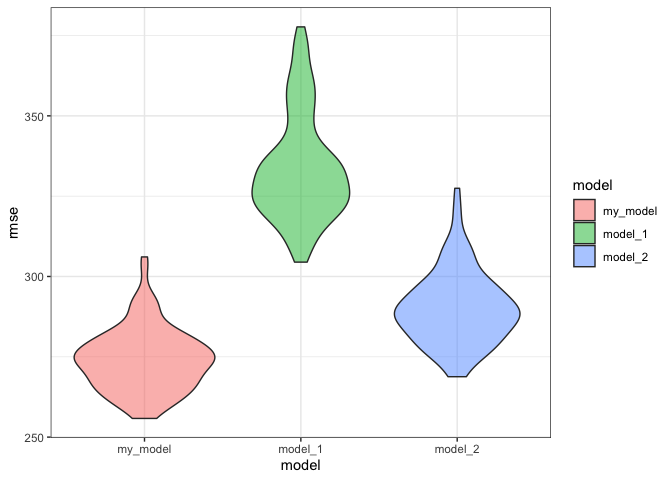
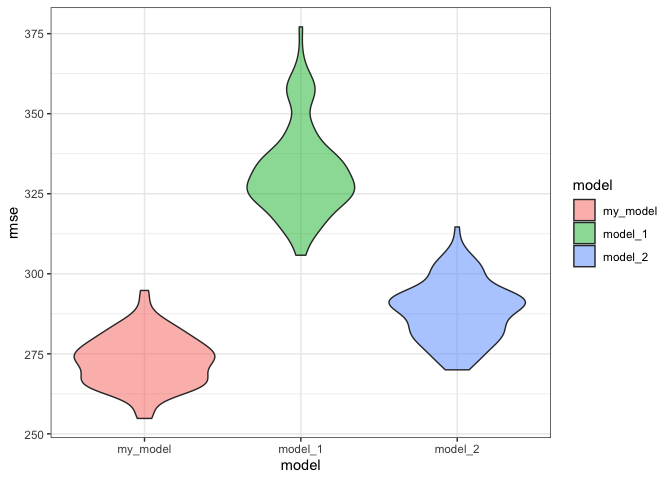
plot the distribution of estimates, and then calculate the 95% CI for estimates

diff --git a/p8105_hw6_xs2384.md b/p8105_hw6_xs2384.md
@@ -15,16 +15,7 @@ df = read_csv("./data/birthweight.csv") %>% janitor::clean_names() %>% mutate(
   malform = as.factor(malform),
   mrace = as.factor(mrace)
 )
-```
 
-    ## Parsed with column specification:
-    ## cols(
-    ##   .default = col_double()
-    ## )
-
-    ## See spec(...) for full column specifications.
-
-``` r
 # check missing value
 nrow(df[is.na(df),])
 ```
@@ -200,8 +191,6 @@ my_model$call
 df %>% add_predictions(my_model) %>% add_residuals(my_model) %>% ggplot(aes(x = pred, y = resid)) + geom_point() + geom_smooth(se = F) + theme_bw() + labs(x = "Fitted Value", y = 'Residuals', title = "Residuals vs Fitted value") + theme(plot.title = element_text(hjust = 0.5))
 ```
 
-    ## `geom_smooth()` using method = 'gam' and formula 'y ~ s(x, bs = "cs")'
-
 ![](p8105_hw6_xs2384_files/figure-markdown_github/unnamed-chunk-4-1.png)
 
 From the plot above, we can see that the residuals are normally distributed when fitted value is from 2000 to 4000.
@@ -209,6 +198,8 @@ From the plot above, we can see that the residuals are normally distributed when
 #### Comparing with two models
 
 ``` r
+set.seed(1)
+
 cv_df = crossv_mc(df, 100)
 
 cv_df = cv_df %>% 
@@ -226,12 +217,7 @@ cv_df = cv_df %>% mutate(
       rmse_my_model = map2_dbl(my_model, test, ~rmse(model = .x, data = .y)),
       rmse_model_1 = map2_dbl(model_1, test, ~rmse(model = .x, data = .y)),
       rmse_model_2 = map2_dbl(model_2, test, ~rmse(model = .x, data = .y))) 
-```
 
-    ## Warning in predict.lm(model, data): prediction from a rank-deficient fit
-    ## may be misleading
-
-``` r
 cv_df %>% select(starts_with("rmse")) %>% 
   pivot_longer(everything() ,
     names_to = "model", 
@@ -247,3 +233,85 @@ From the violin plot above, we can see that my choice of model has the lowest rm
 
 Problem 2
 ---------
+
+#### Import the data
+
+``` r
+weather_df = 
+  rnoaa::meteo_pull_monitors(
+    c("USW00094728"),
+    var = c("PRCP", "TMIN", "TMAX"), 
+    date_min = "2017-01-01",
+    date_max = "2017-12-31") %>%
+  mutate(
+    name = recode(id, USW00094728 = "CentralPark_NY"),
+    tmin = tmin / 10,
+    tmax = tmax / 10) %>%
+  select(name, id, everything())
+```
+
+#### Calculate the R^2 and log(beta0 + beta1)
+
+``` r
+l = function(x){
+  lo = log(x[[2]][1] * x[[2]][2])
+  lo
+}
+
+r = function(x){
+  r2 = x[[2]]
+  r2
+}
+
+set.seed(1)
+
+boots_trap = weather_df %>% bootstrap(n = 5000) %>% mutate(
+  models = map(strap, ~lm(tmax ~ tmin, data = .x)),
+  r_2 = map(models, broom::glance),
+  log = map(models, broom::tidy),
+  r_2 = as.numeric(map(r_2, r)),
+  log = as.numeric(map(log, l))
+  ) %>% select(-strap, -models) %>% rename("r_square" = r_2)
+```
+
+#### Plot the distribution of estimates
+
+``` r
+boots_trap %>% ggplot(aes(x = r_square)) + geom_density(fill = "red", alpha = 0.6) + labs(title = "Distribution of R^2") + theme_bw() + theme(plot.title = element_text(hjust = 0.5))
+```
+
+![](p8105_hw6_xs2384_files/figure-markdown_github/unnamed-chunk-8-1.png)
+
+From the plot above, we can see that r-squared score for each strap is normally distributed with a little left skewness, which means that there are some extremely high r-squared score, the outliers, for some of the straps.
+
+``` r
+boots_trap %>% ggplot(aes(x = log)) + geom_density(fill = "green", alpha = 0.6) + labs(title = "Distribution of log(beta0 * beta1)") + theme_bw() + theme(plot.title = element_text(hjust = 0.5))
+```
+
+![](p8105_hw6_xs2384_files/figure-markdown_github/unnamed-chunk-9-1.png)
+
+From the above plot, we can see that the log(beta1 \* beta2) estimates are normally distributed through the straps.
+
+#### 95% confidence interval with quantile 0.025, 0.975
+
+##### R-square
+
+``` r
+c(quantile(boots_trap$r_square, probs = 0.025), quantile(boots_trap$r_square, probs = 0.975))
+```
+
+    ##      2.5%     97.5% 
+    ## 0.8933755 0.9269052
+
+The 95% confidence interval for r-square with quantile 0.025 and 0.975 is (0.8933755, 0.9269052)
+
+##### log(beta0 \* beta1)
+
+``` r
+c(quantile(boots_trap$log, probs = 0.025), quantile(boots_trap$log, probs = 0.975))
+```
+
+    ##     2.5%    97.5% 
+    ## 1.964949 2.058887
+
+The 95% confidence interval for log(beta0 \* beta1) with quantile 0.025 and 0.975 is (1.9649487, 2.0588875)
